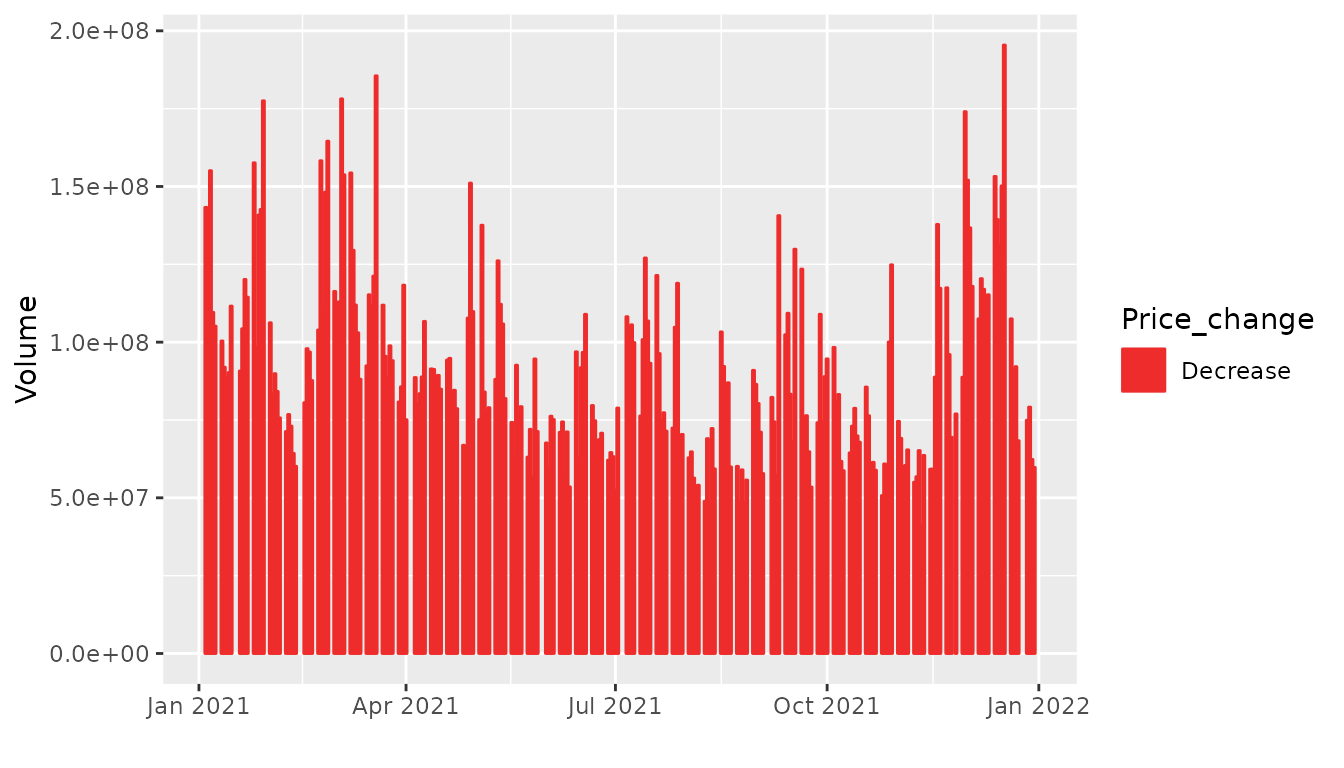
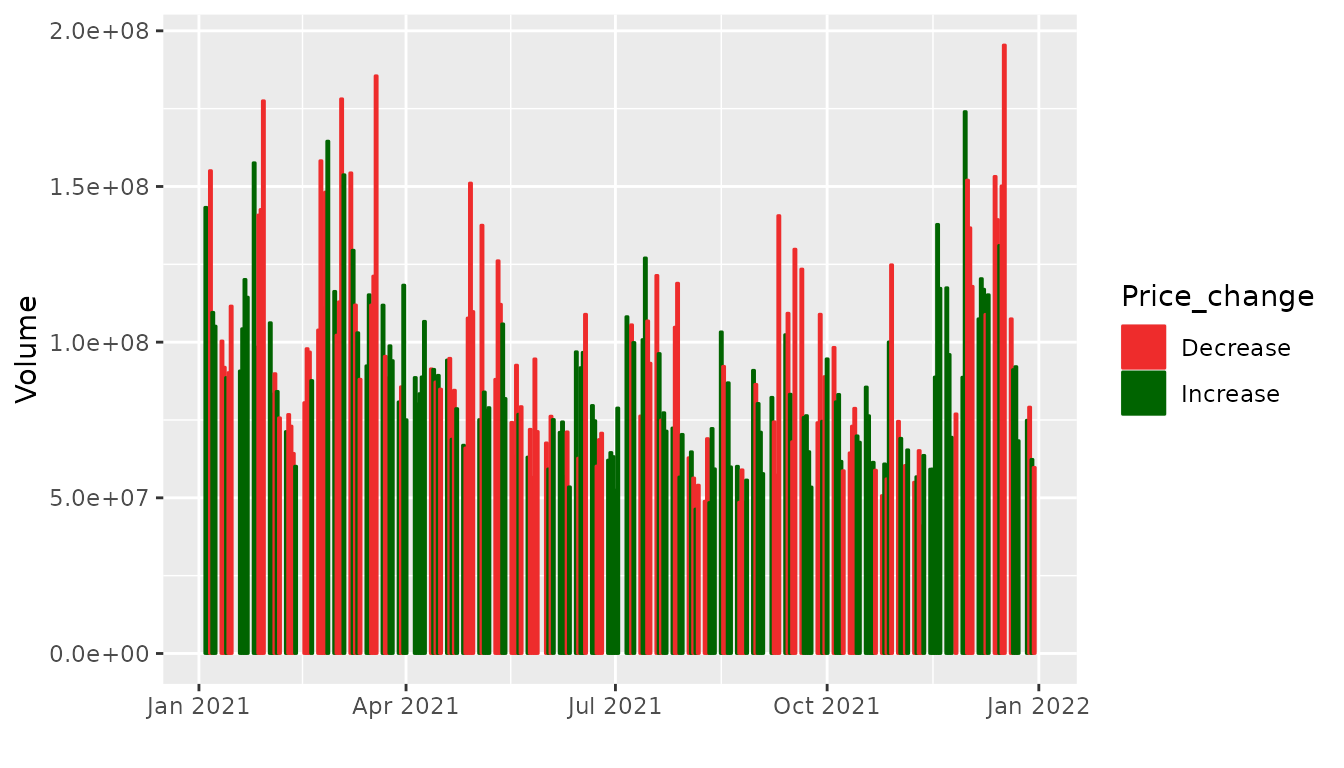
Built site for Rstockwatch: 0.0.0.9000@c11a574

Changed region(s): [[0.125, 0.1875, 0.7812, 0.875], [0.8125, 0.375, 1.0, 0.5625]]

diff --git a/articles/my-vignette.html b/articles/my-vignette.html
@@ -132,14 +132,14 @@
 <span class="co">#&gt; <span style="color: #949494;"># A tibble: 251 × 3</span></span>
 <span class="co">#&gt;    date          volume Price_change</span>
 <span class="co">#&gt;    <span style="color: #949494; font-style: italic;">&lt;date&gt;</span>         <span style="color: #949494; font-style: italic;">&lt;dbl&gt;</span> <span style="color: #949494; font-style: italic;">&lt;chr&gt;</span>       </span>
-<span class="co">#&gt; <span style="color: #BCBCBC;"> 1</span> 2021-01-04 143<span style="text-decoration: underline;">301</span>900 Decrease    </span>
-<span class="co">#&gt; <span style="color: #BCBCBC;"> 2</span> 2021-01-05  97<span style="text-decoration: underline;">664</span>900 Decrease    </span>
+<span class="co">#&gt; <span style="color: #BCBCBC;"> 1</span> 2021-01-04 143<span style="text-decoration: underline;">301</span>900 Increase    </span>
+<span class="co">#&gt; <span style="color: #BCBCBC;"> 2</span> 2021-01-05  97<span style="text-decoration: underline;">664</span>900 Increase    </span>
 <span class="co">#&gt; <span style="color: #BCBCBC;"> 3</span> 2021-01-06 155<span style="text-decoration: underline;">088</span>000 Decrease    </span>
-<span class="co">#&gt; <span style="color: #BCBCBC;"> 4</span> 2021-01-07 109<span style="text-decoration: underline;">578</span>200 Decrease    </span>
-<span class="co">#&gt; <span style="color: #BCBCBC;"> 5</span> 2021-01-08 105<span style="text-decoration: underline;">158</span>200 Decrease    </span>
+<span class="co">#&gt; <span style="color: #BCBCBC;"> 4</span> 2021-01-07 109<span style="text-decoration: underline;">578</span>200 Increase    </span>
+<span class="co">#&gt; <span style="color: #BCBCBC;"> 5</span> 2021-01-08 105<span style="text-decoration: underline;">158</span>200 Increase    </span>
 <span class="co">#&gt; <span style="color: #BCBCBC;"> 6</span> 2021-01-11 100<span style="text-decoration: underline;">384</span>500 Decrease    </span>
 <span class="co">#&gt; <span style="color: #BCBCBC;"> 7</span> 2021-01-12  91<span style="text-decoration: underline;">951</span>100 Decrease    </span>
-<span class="co">#&gt; <span style="color: #BCBCBC;"> 8</span> 2021-01-13  88<span style="text-decoration: underline;">636</span>800 Decrease    </span>
+<span class="co">#&gt; <span style="color: #BCBCBC;"> 8</span> 2021-01-13  88<span style="text-decoration: underline;">636</span>800 Increase    </span>
 <span class="co">#&gt; <span style="color: #BCBCBC;"> 9</span> 2021-01-14  90<span style="text-decoration: underline;">221</span>800 Decrease    </span>
 <span class="co">#&gt; <span style="color: #BCBCBC;">10</span> 2021-01-15 111<span style="text-decoration: underline;">598</span>500 Decrease    </span>
 <span class="co">#&gt; <span style="color: #949494;"># … with 241 more rows</span></span></code></pre></div>

diff --git a/reference/volume_change.html b/reference/volume_change.html
@@ -71,11 +71,11 @@
 <span class="r-out co"><span class="r-pr">#&gt;</span> <span style="color: #949494;"># A tibble: 5 × 3</span></span>
 <span class="r-out co"><span class="r-pr">#&gt;</span>   date          volume Price_change</span>
 <span class="r-out co"><span class="r-pr">#&gt;</span>   <span style="color: #949494; font-style: italic;">&lt;date&gt;</span>         <span style="color: #949494; font-style: italic;">&lt;dbl&gt;</span> <span style="color: #949494; font-style: italic;">&lt;chr&gt;</span>       </span>
-<span class="r-out co"><span class="r-pr">#&gt;</span> <span style="color: #BCBCBC;">1</span> 2017-01-03 115<span style="text-decoration: underline;">127</span>600 Decrease    </span>
+<span class="r-out co"><span class="r-pr">#&gt;</span> <span style="color: #BCBCBC;">1</span> 2017-01-03 115<span style="text-decoration: underline;">127</span>600 Increase    </span>
 <span class="r-out co"><span class="r-pr">#&gt;</span> <span style="color: #BCBCBC;">2</span> 2017-01-04  84<span style="text-decoration: underline;">472</span>400 Decrease    </span>
-<span class="r-out co"><span class="r-pr">#&gt;</span> <span style="color: #BCBCBC;">3</span> 2017-01-05  88<span style="text-decoration: underline;">774</span>400 Decrease    </span>
-<span class="r-out co"><span class="r-pr">#&gt;</span> <span style="color: #BCBCBC;">4</span> 2017-01-06 127<span style="text-decoration: underline;">007</span>600 Decrease    </span>
-<span class="r-out co"><span class="r-pr">#&gt;</span> <span style="color: #BCBCBC;">5</span> 2017-01-09 134<span style="text-decoration: underline;">247</span>600 Decrease    </span>
+<span class="r-out co"><span class="r-pr">#&gt;</span> <span style="color: #BCBCBC;">3</span> 2017-01-05  88<span style="text-decoration: underline;">774</span>400 Increase    </span>
+<span class="r-out co"><span class="r-pr">#&gt;</span> <span style="color: #BCBCBC;">4</span> 2017-01-06 127<span style="text-decoration: underline;">007</span>600 Increase    </span>
+<span class="r-out co"><span class="r-pr">#&gt;</span> <span style="color: #BCBCBC;">5</span> 2017-01-09 134<span style="text-decoration: underline;">247</span>600 Increase    </span>
 </code></pre></div>
     </div>
   </main><aside class="col-md-3"><nav id="toc"><h2>On this page</h2>
